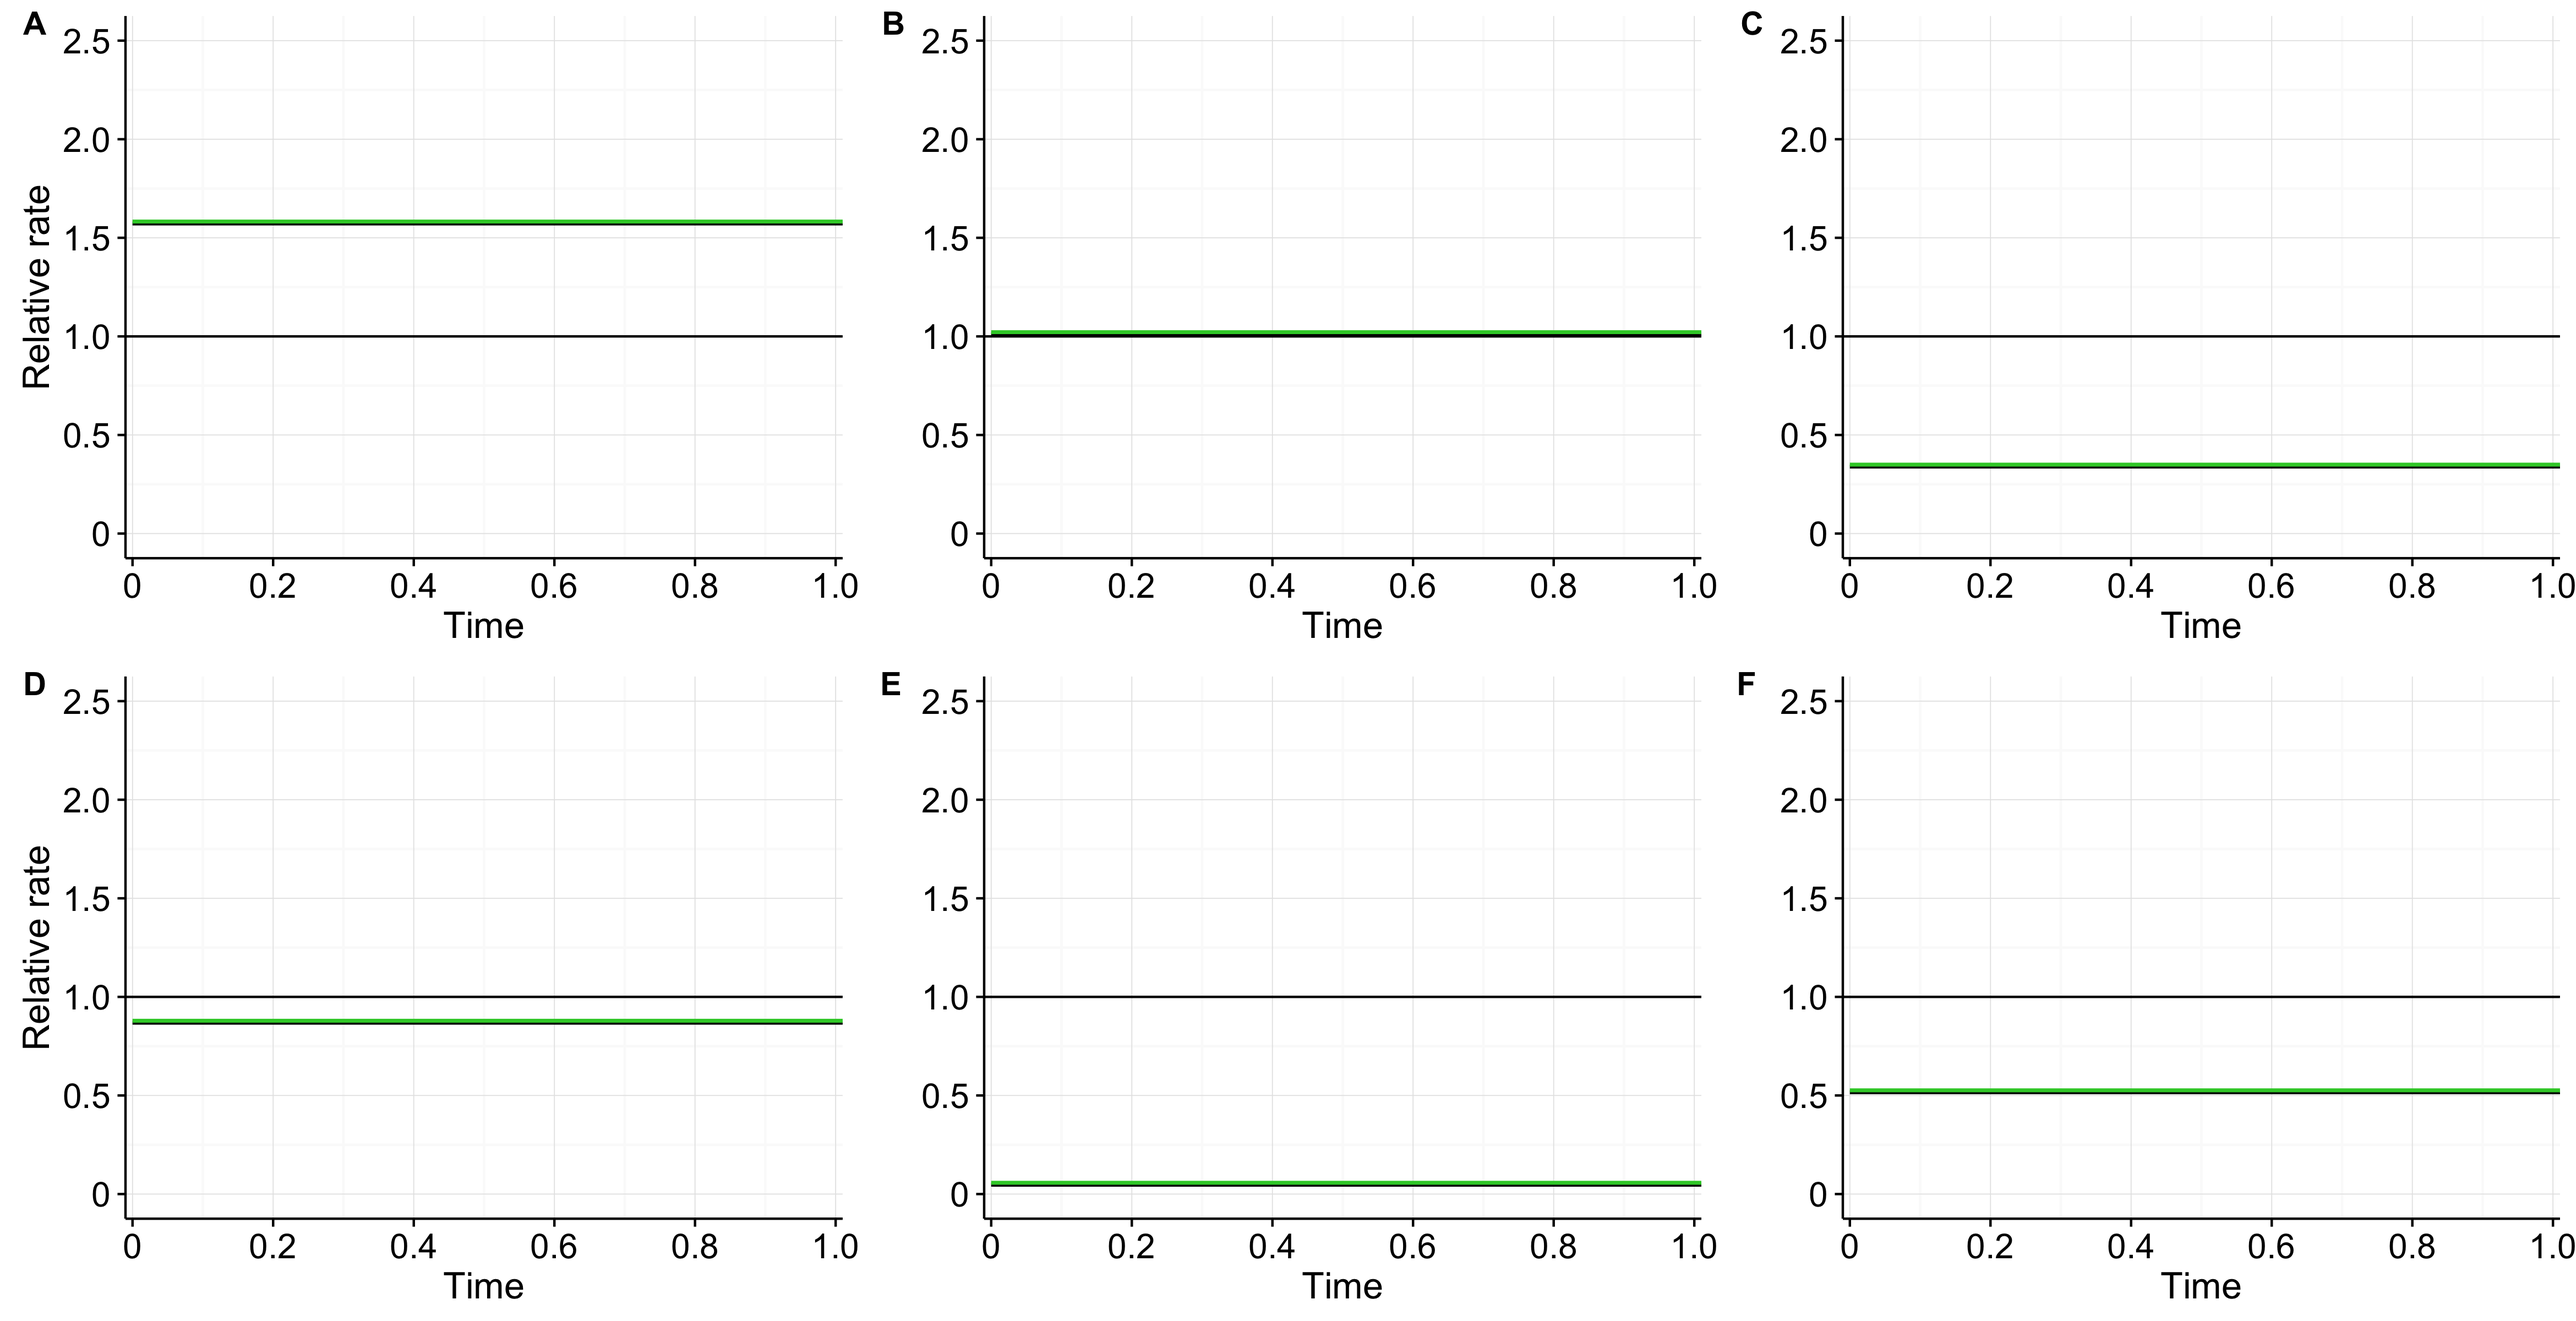
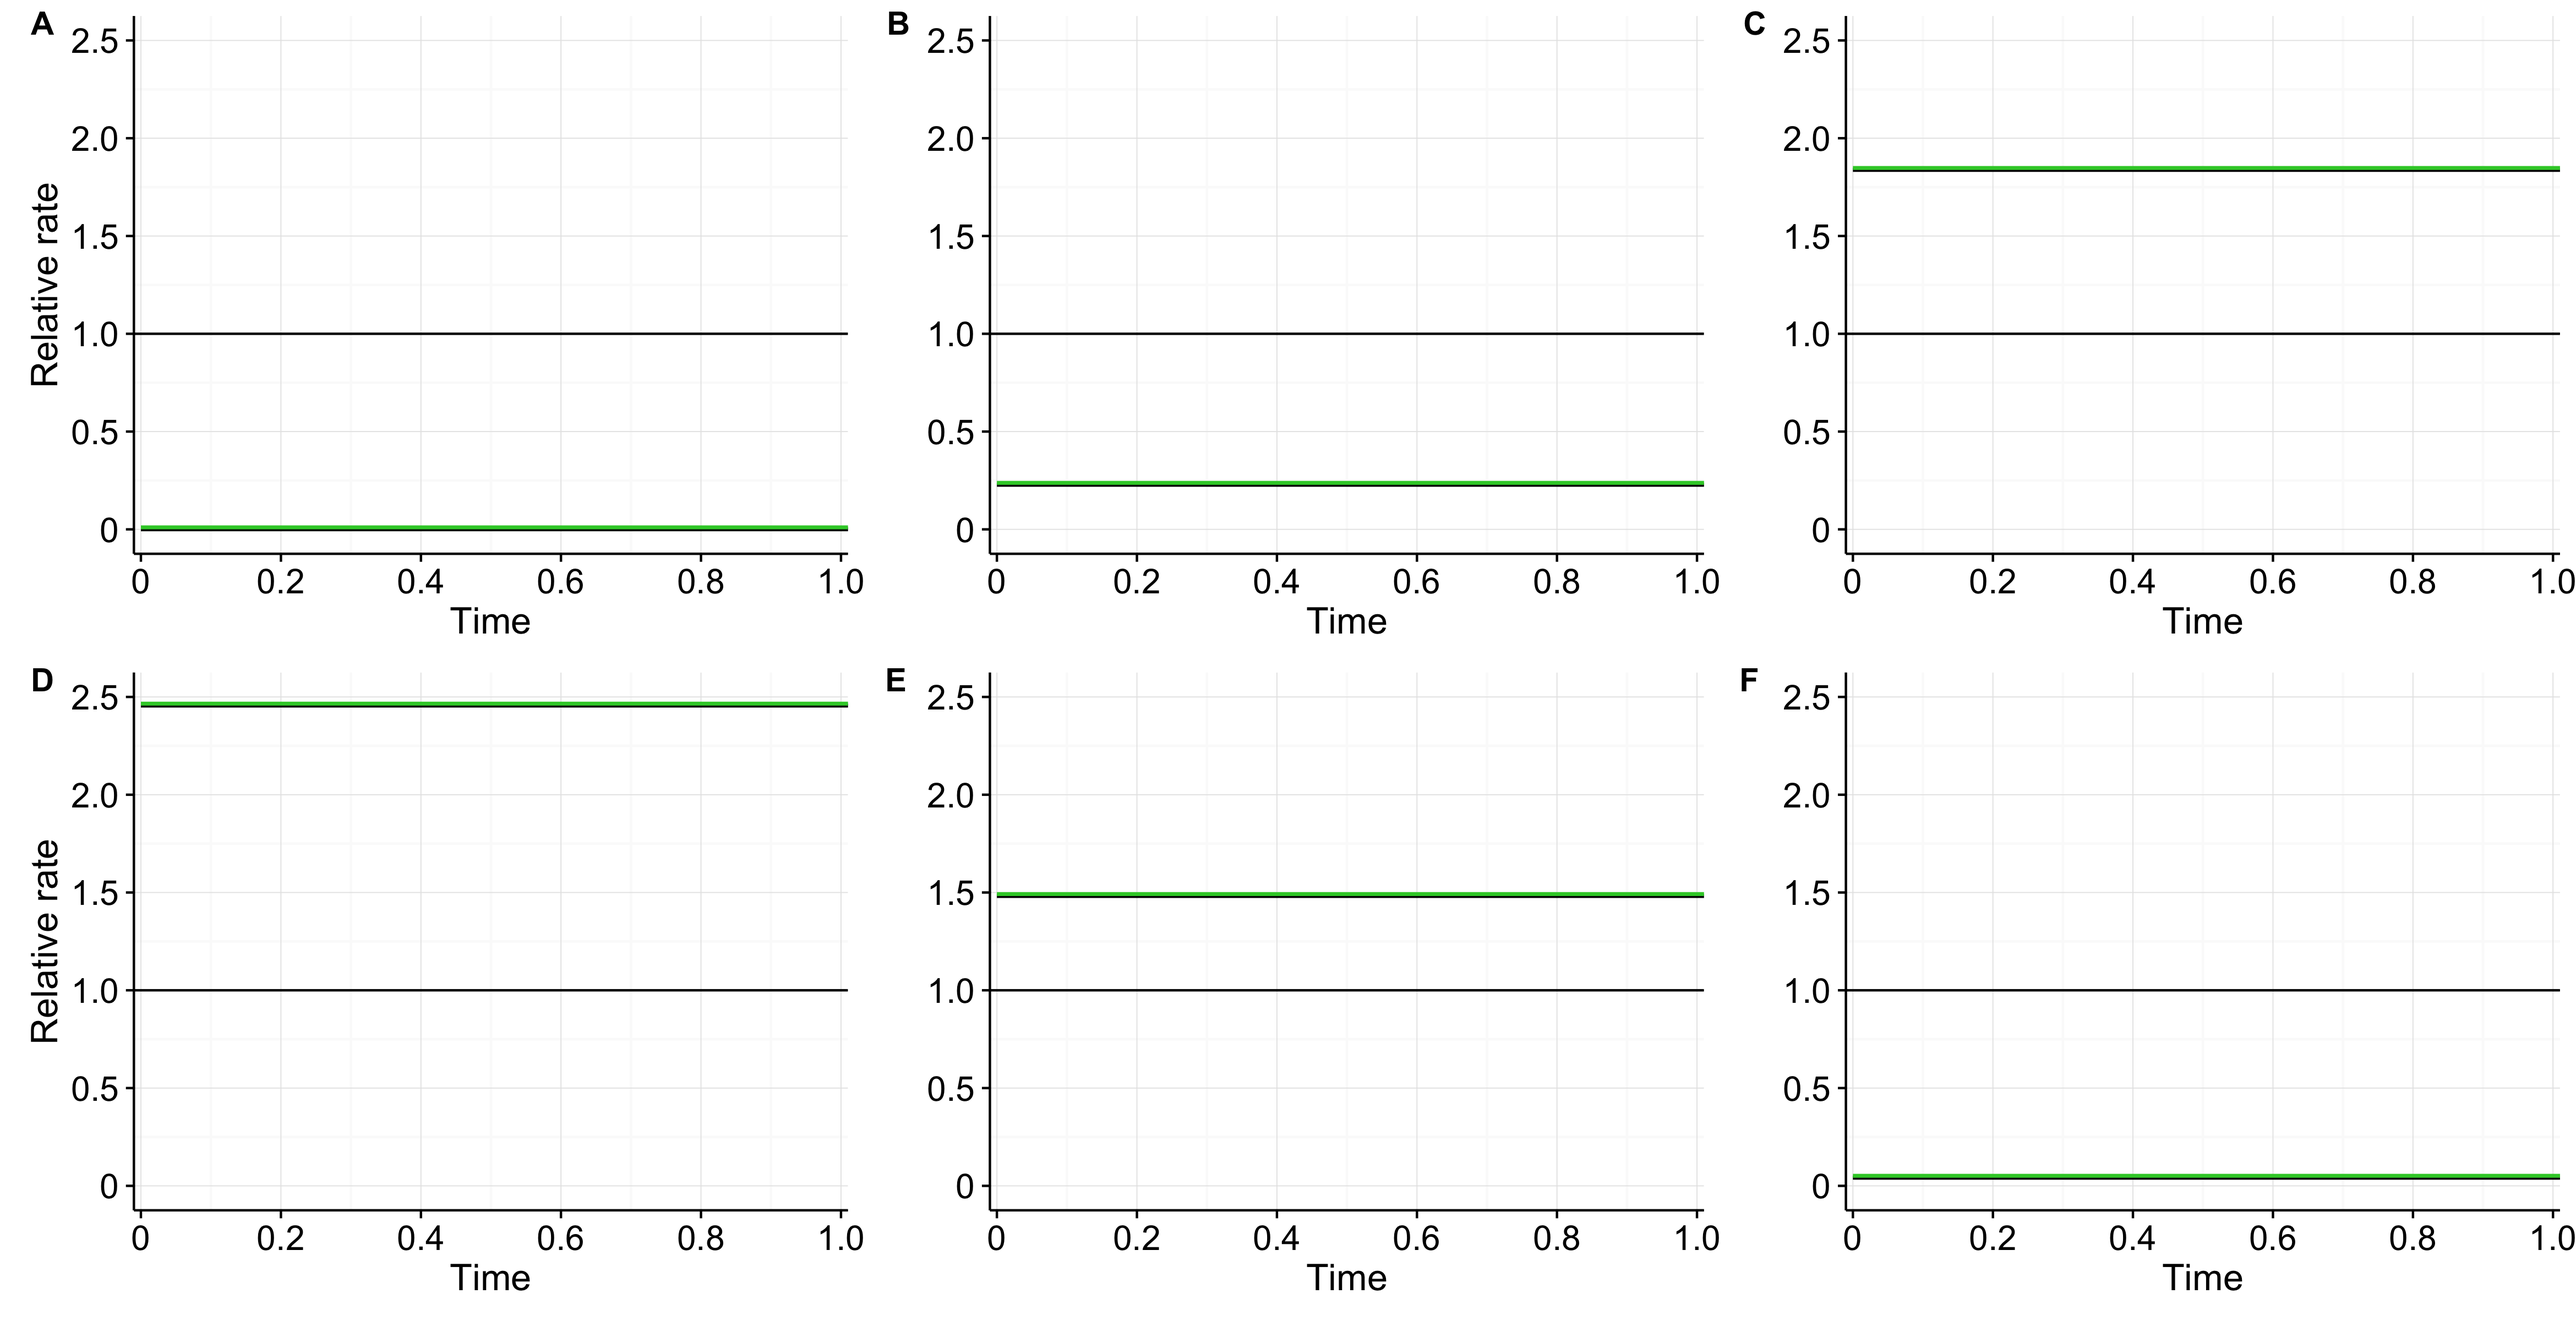
Adding a plot and script to calculate rates if true model is JC

diff --git a/src/calc_an_rates_aa_true_JC.py b/src/calc_an_rates_aa_true_JC.py
@@ -1,0 +1,101 @@
+import numpy as np
+from scipy import linalg
+import sys
+
+####################### Amino acid order in this scrip ####################
+###amino acid order in all amino acid matrices and vectors: ACDEFGHIKLMNPQRSTVWY
+def get_q_matrix():
+	##set q matrix to JC
+	q_matrix=np.empty((20,20))
+	q_matrix.fill(1./20.)
+		
+	##set the rows to equal to zero by setting the diagonal to equal the negative of the sum of off-diagonal values
+	np.fill_diagonal(q_matrix, 0) #set the diagonal to zero to be able to add rows together.
+	np.fill_diagonal(q_matrix, -q_matrix.sum(axis=1))
+	
+	##check that each row adds up to zero
+	if q_matrix.sum()-0 > 0.0000001:
+		print("Rows in the subsitution matrix do not add up to 0!")
+		sys.exit()
+		
+	return q_matrix
+
+def get_true_r_dict(site_limit):
+	true_r_dict={}
+	true_r_lst=[]
+	
+	for i in range(site_limit):
+		true_r=np.random.gamma(0.312,1/1.027,1)	
+		true_r_lst.append(true_r)
+		
+	for i in range(site_limit):
+		norm_r=true_r_lst[i]/np.mean(true_r_lst)
+		true_r_dict[i]=norm_r
+		
+	return true_r_dict
+	
+def get_p_matrix(t,r,q_matrix):
+	p_matrix = linalg.expm(r*t*q_matrix)
+	if p_matrix.sum()-20 > 0.0000001:
+		print("Rows in the projection matrix do not add up to 1!")
+		sys.exit()
+		
+	return p_matrix
+	
+def get_pi_lst():
+	pi_lst=np.empty(20)
+	pi_lst.fill(1./20.)
+
+	return pi_lst
+
+def get_r_tilde(outfile, site_limit):
+	
+	##write a header for the output file
+	outfile=open(outfile,'w')
+	outfile.write('site\ttime\ttrue_r\tr_tilde\n')
+	m=site_limit ##set total number of sites
+	true_r_dict=get_true_r_dict(site_limit)
+	
+	for t in np.arange(0.000002,2,0.02):
+		site_num_r=[]
+		site_true_r=[]
+		for site in range(site_limit):		
+			q_matrix=get_q_matrix()
+			true_r=true_r_dict[site]
+			
+			pi_lst = get_pi_lst()
+			p_matrix=get_p_matrix(t,true_r,q_matrix)
+
+			num_sum_r=0		
+			for i in range(20):
+				for j in range(20):
+	
+					##assign 0 where i = j
+					if i==j:
+						num_sum_r+=0
+					else:
+						num_sum_r+=pi_lst[i]*p_matrix[i,j]
+					
+			site_num_r.append(np.log(1.0-((20.0/19.0)*num_sum_r)))
+			
+		for i in range(len(site_num_r)):
+			true_r = true_r_dict[i]
+			site_r_tilde = site_num_r[i] / ( (1.0/m) * sum(site_num_r))
+
+			line='%d\t%f\t%f\t%f' %(i+1, t, true_r, site_r_tilde) 
+			outfile.write(line+'\n')
+
+def main():
+
+	if len(sys.argv) != 3: # wrong number of arguments
+		print("""Usage:
+		python calc_an_rates_aa_true_JC.py <output_txt_file> <site_limit> 
+		""")
+		sys.exit()
+
+	outfile = sys.argv[1]
+	site_limit = int(sys.argv[2])
+	
+	get_r_tilde(outfile, site_limit)
+
+main()

diff --git a/src/calc_an_rates_aa.py b/src/calc_an_rates_aa.py
@@ -2,9 +2,8 @@ import numpy as np
 from scipy import linalg
 import sys
 
-####################### Amino acid and codon order in this scrip ####################
+####################### Amino acid order in this scrip ####################
 ###amino acid order in all amino acid matrices and vectors: ACDEFGHIKLMNPQRSTVWY
-###Codon order in all codon matrices and vectors:
 
 def get_ddg_dict(ddg_file,site_limit=None):		
 	
@@ -80,7 +79,7 @@ def get_q_matrix(s_matrix):
 
 def get_p_matrix(t,q_matrix):
 	p_matrix = linalg.expm(t*q_matrix)
-	if np.sum(p_matrix)-61 > 0.0000001:
+	if p_matrix.sum()-20 > 0.0000001:
 		print("Rows in the projection matrix do not add up to 1!")
 		sys.exit()
 		
